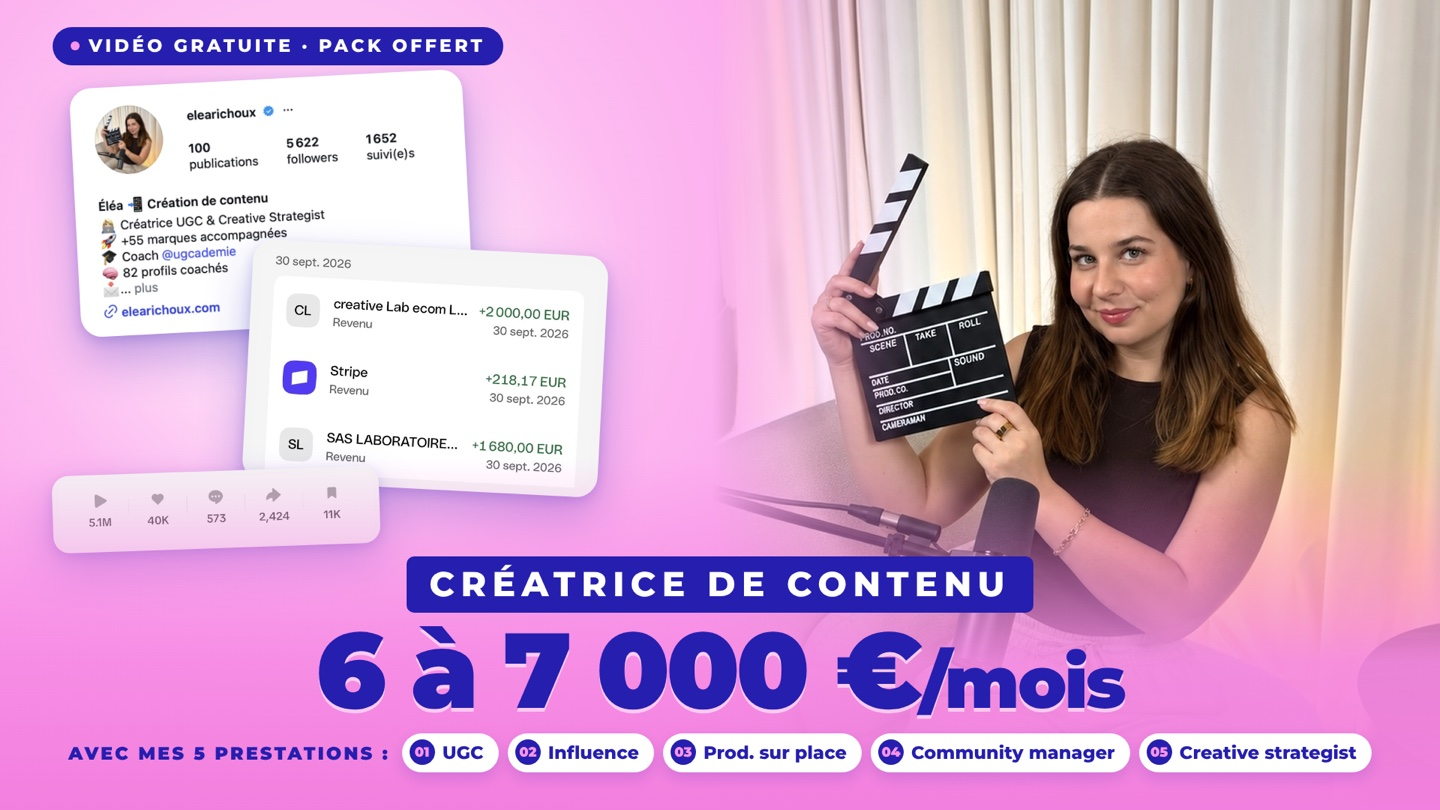
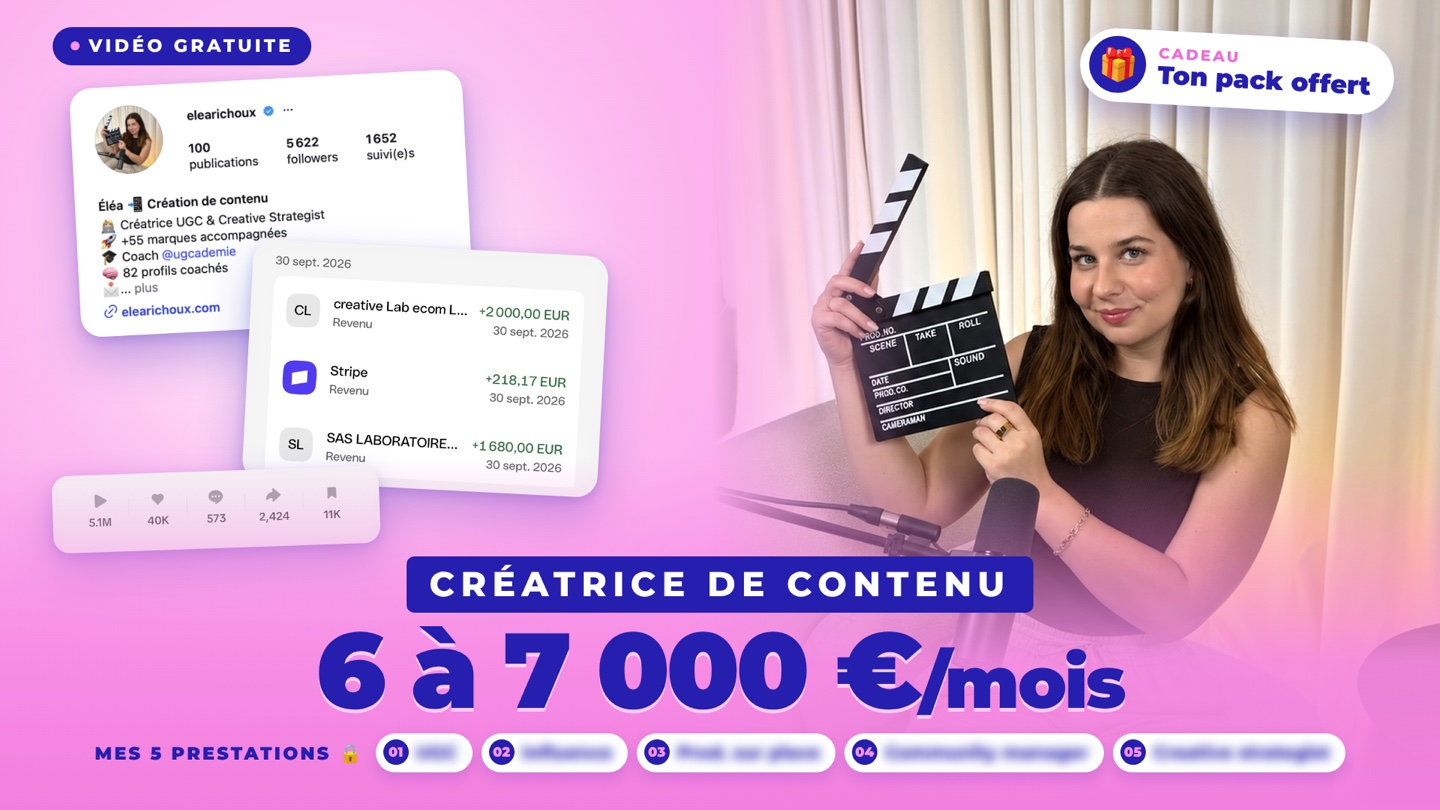
feat(vsl-prestations): miniature v6 (prestations floutées + badge cadeau)
Même nom de fichier, donc aucun changement de markup : PNG 1,45 Mo →
JPEG 1440×810 de 266 Ko. L'alt est corrigé, les 5 prestations ne sont
plus énumérées puisqu'elles sont floutées sous un cadenas dans la v6.

Changed region(s): [[0.0312, 0.8951, 0.9688, 0.9568], [0.75, 0.0309, 0.9688, 0.1543], [0.1875, 0.0309, 0.375, 0.0926]]

diff --git a/vsl-prestations/index.html b/vsl-prestations/index.html
@@ -641,7 +641,7 @@ footer{
     <!-- Variante B — miniature -->
     <div class="deck-variant deck-variant--mini">
       <div class="deck-card">
-        <img src="/assets/img/vsl-presta/miniature-elea.jpg" alt="Eléa, créatrice de contenu — 6 à 7 000 €/mois avec ses 5 prestations : UGC, influence, prod sur place, community manager, creative strategist" fetchpriority="high" decoding="async" width="1440" height="810">
+        <img src="/assets/img/vsl-presta/miniature-elea.jpg" alt="Eléa, créatrice de contenu — 6 à 7 000 €/mois avec ses 5 prestations, dévoilées dans la vidéo" fetchpriority="high" decoding="async" width="1440" height="810">
         <span class="play-btn"><svg viewBox="0 0 24 24"><path d="M8 5v14l11-7z"/></svg></span>
       </div>
     </div>
